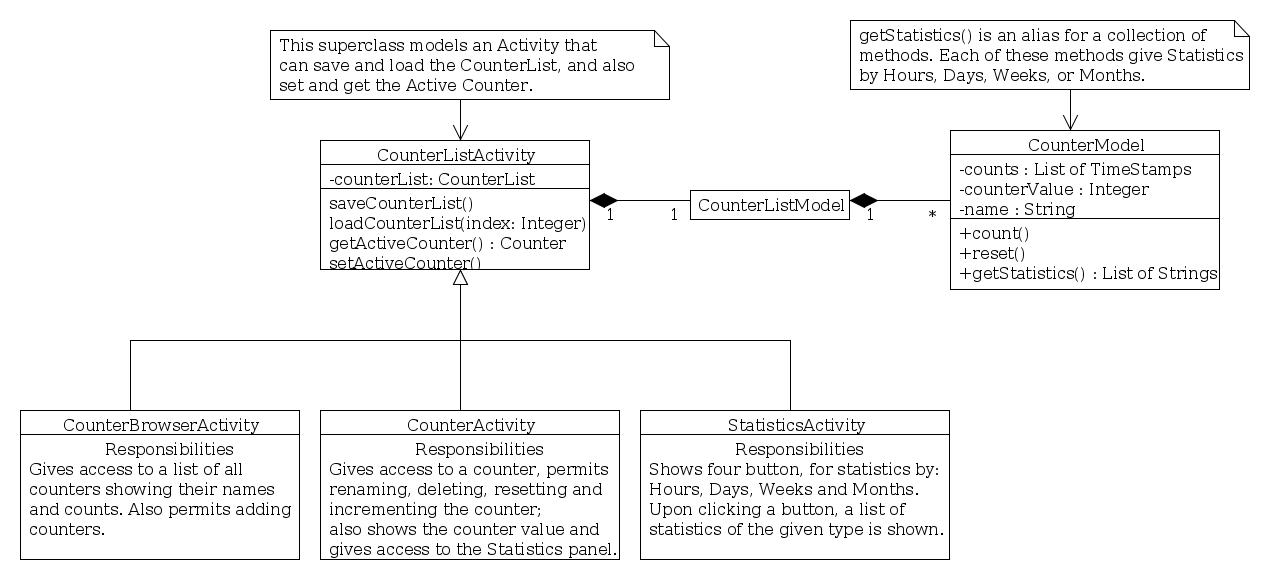
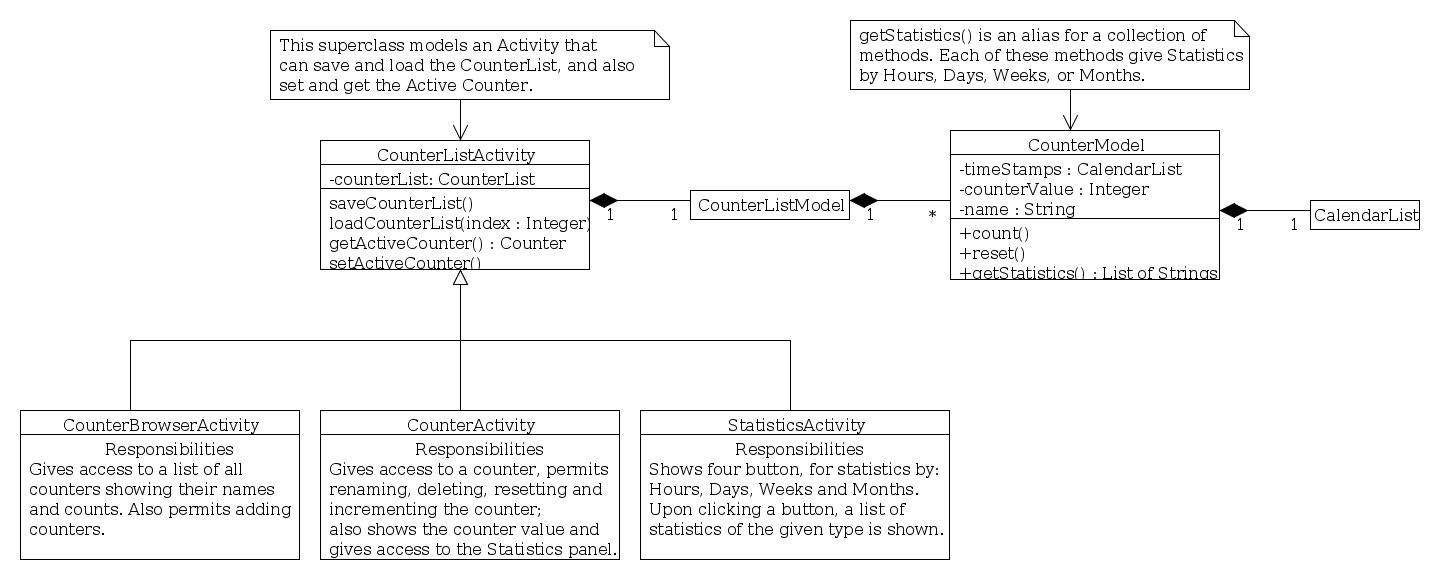
Refactored Calendar logic out of Counter Model into a new class

diff --git a/src/ca/ualberta/counter/CounterModel.java b/src/ca/ualberta/counter/CounterModel.java
@@ -2,9 +2,6 @@ package ca.ualberta.counter;
 
 import java.io.Serializable;
 import java.util.ArrayList;
-import java.util.Calendar;
-import java.util.HashMap;
-import java.util.Locale;
 
 /**
  * Models an individual counter.
@@ -13,18 +10,17 @@ import java.util.Locale;
 public class CounterModel implements Comparable<CounterModel>, Serializable {
 
 	private static final long serialVersionUID = 1L;
-	private ArrayList<Calendar> counts;
+	private CalendarList timeStamps = new CalendarList();
 	private int counterValue;
 	private String name;
 
 	public CounterModel(String name) {
 		counterValue=0;
 		this.name = name;
-		counts = new ArrayList<Calendar>();
 	}
 
 	public void count() {
-		counts.add(Calendar.getInstance());
+		timeStamps.addNow();
 		counterValue++;
 	}
 
@@ -42,96 +38,7 @@ public class CounterModel implements Comparable<CounterModel>, Serializable {
 	
 	public String getName() {
 		return name;
-	}
-	
-	/*
-	 * Each of the following four methods returns an ArrayList with the
-	 * statistics to be printed.
-	 * First a HashMap is filled with keys, which are Strings that represents
-	 * the Date for that format, with values that are the counts of that Date.
-	 * Then, an ArrayList is filled with each String followed by it's count.
-	 */
-	
-	public ArrayList<String> getStatisticsByHour() {
-		HashMap<String, Integer> map = new HashMap<String, Integer>();
-		for(Calendar cal : counts) {
-			String key = cal.get(Calendar.YEAR) + " " + 
-					cal.getDisplayName(Calendar.MONTH, Calendar.SHORT, Locale.getDefault()) + " " +
-					cal.get(Calendar.DAY_OF_MONTH) + " " +
-					cal.get(Calendar.HOUR_OF_DAY) + ":00";
-			if(map.containsKey(key)) {
-				map.put(key, map.get(key)+1);
-			}
-			else {
-				map.put(key, 1);
-			}
-		}
-		ArrayList<String> stats = new ArrayList<String>();
-		for(String key : map.keySet()) {
-			stats.add(key + " -- " + map.get(key));
-		}
-		return stats;
-	}
-
-	public ArrayList<String> getStatisticsByDay() {
-		HashMap<String, Integer> map = new HashMap<String, Integer>();
-		for(Calendar cal : counts) {
-			String key = cal.get(Calendar.YEAR) + " " + 
-					cal.getDisplayName(Calendar.MONTH, Calendar.SHORT, Locale.getDefault()) + " " +
-					cal.get(Calendar.DAY_OF_MONTH);
-			if(map.containsKey(key)) {
-				map.put(key, map.get(key)+1);
-			}
-			else {
-				map.put(key, 1);
-			}
-		}
-		ArrayList<String> stats = new ArrayList<String>();
-		for(String key : map.keySet()) {
-			stats.add(key + " -- " + map.get(key));
-		}
-		return stats;
-	}
-
-	public ArrayList<String> getStatisticsByWeek() {
-		HashMap<String, Integer> map = new HashMap<String, Integer>();
-		for(Calendar cal : counts) {
-			String key = cal.get(Calendar.YEAR) + " " + 
-					cal.getDisplayName(Calendar.MONTH, Calendar.SHORT, Locale.getDefault())
-					+ " Week " +
-					cal.get(Calendar.WEEK_OF_MONTH);
-			if(map.containsKey(key)) {
-				map.put(key, map.get(key)+1);
-			}
-			else {
-				map.put(key, 1);
-			}
-		}
-		ArrayList<String> stats = new ArrayList<String>();
-		for(String key : map.keySet()) {
-			stats.add(key + " -- " + map.get(key));
-		}
-		return stats;
-	}
-
-	public ArrayList<String> getStatisticsByMonth() {
-		HashMap<String, Integer> map = new HashMap<String, Integer>();
-		for(Calendar cal : counts) {
-			String key = cal.get(Calendar.YEAR) + " " + 
-					cal.getDisplayName(Calendar.MONTH, Calendar.SHORT, Locale.getDefault());
-			if(map.containsKey(key)) {
-				map.put(key, map.get(key)+1);
-			}
-			else {
-				map.put(key, 1);
-			}
-		}
-		ArrayList<String> stats = new ArrayList<String>();
-		for(String key : map.keySet()) {
-			stats.add(key + " -- " + map.get(key));
-		}
-		return stats;
-	}
+	}	
 
 	//This is the String printed in the CounterBrowserActivity List.
 	@Override
@@ -148,6 +55,22 @@ public class CounterModel implements Comparable<CounterModel>, Serializable {
 			return 0;
 		else
 			return 1;
+	}
+
+	public ArrayList<String> getStatisticsByHour() {
+		return timeStamps.getStatisticsByHour();
+	}
+	
+	public ArrayList<String> getStatisticsByDay() {
+		return timeStamps.getStatisticsByDay();
+	}
+	
+	public ArrayList<String> getStatisticsByWeek() {
+		return timeStamps.getStatisticsByWeek();
+	}
+	
+	public ArrayList<String> getStatisticsByMonth() {
+		return timeStamps.getStatisticsByMonth();
 	}
 
 }

diff --git a/src/ca/ualberta/counter/CalendarList.java b/src/ca/ualberta/counter/CalendarList.java
@@ -1,0 +1,113 @@
+package ca.ualberta.counter;
+
+import java.util.ArrayList;
+import java.util.Calendar;
+import java.util.HashMap;
+import java.util.Locale;
+
+/*
+ * Class that wraps an ArrayList<Calendar> and extends it with
+ * functions that provides statistics by time periods.
+ */
+
+public class CalendarList {
+	private ArrayList<Calendar> calendarList;
+
+	public CalendarList() {
+		calendarList = new ArrayList<Calendar>();
+	}
+	
+	public void addNow() {
+		calendarList.add(Calendar.getInstance());
+	}
+	
+	/*
+	 * Each of the following four methods returns an ArrayList with the
+	 * statistics to be printed.
+	 * First a HashMap is filled with keys, which are Strings that represents
+	 * the Date for that format, with values that are the counts of that Date.
+	 * Then, an ArrayList is filled with each String followed by it's count.
+	 */
+	
+	public ArrayList<String> getStatisticsByHour() {
+		HashMap<String, Integer> map = new HashMap<String, Integer>();
+		for(Calendar cal : calendarList) {
+			String key = cal.get(Calendar.YEAR) + " " + 
+					cal.getDisplayName(Calendar.MONTH, Calendar.SHORT, Locale.getDefault()) + " " +
+					cal.get(Calendar.DAY_OF_MONTH) + " " +
+					cal.get(Calendar.HOUR_OF_DAY) + ":00";
+			if(map.containsKey(key)) {
+				map.put(key, map.get(key)+1);
+			}
+			else {
+				map.put(key, 1);
+			}
+		}
+		ArrayList<String> stats = new ArrayList<String>();
+		for(String key : map.keySet()) {
+			stats.add(key + " -- " + map.get(key));
+		}
+		return stats;
+	}
+
+	public ArrayList<String> getStatisticsByDay() {
+		HashMap<String, Integer> map = new HashMap<String, Integer>();
+		for(Calendar cal : calendarList) {
+			String key = cal.get(Calendar.YEAR) + " " + 
+					cal.getDisplayName(Calendar.MONTH, Calendar.SHORT, Locale.getDefault()) + " " +
+					cal.get(Calendar.DAY_OF_MONTH);
+			if(map.containsKey(key)) {
+				map.put(key, map.get(key)+1);
+			}
+			else {
+				map.put(key, 1);
+			}
+		}
+		ArrayList<String> stats = new ArrayList<String>();
+		for(String key : map.keySet()) {
+			stats.add(key + " -- " + map.get(key));
+		}
+		return stats;
+	}
+
+	public ArrayList<String> getStatisticsByWeek() {
+		HashMap<String, Integer> map = new HashMap<String, Integer>();
+		for(Calendar cal : calendarList) {
+			String key = cal.get(Calendar.YEAR) + " " + 
+					cal.getDisplayName(Calendar.MONTH, Calendar.SHORT, Locale.getDefault())
+					+ " Week " +
+					cal.get(Calendar.WEEK_OF_MONTH);
+			if(map.containsKey(key)) {
+				map.put(key, map.get(key)+1);
+			}
+			else {
+				map.put(key, 1);
+			}
+		}
+		ArrayList<String> stats = new ArrayList<String>();
+		for(String key : map.keySet()) {
+			stats.add(key + " -- " + map.get(key));
+		}
+		return stats;
+	}
+
+	public ArrayList<String> getStatisticsByMonth() {
+		HashMap<String, Integer> map = new HashMap<String, Integer>();
+		for(Calendar cal : calendarList) {
+			String key = cal.get(Calendar.YEAR) + " " + 
+					cal.getDisplayName(Calendar.MONTH, Calendar.SHORT, Locale.getDefault());
+			if(map.containsKey(key)) {
+				map.put(key, map.get(key)+1);
+			}
+			else {
+				map.put(key, 1);
+			}
+		}
+		ArrayList<String> stats = new ArrayList<String>();
+		for(String key : map.keySet()) {
+			stats.add(key + " -- " + map.get(key));
+		}
+		return stats;
+	}
+
+}
